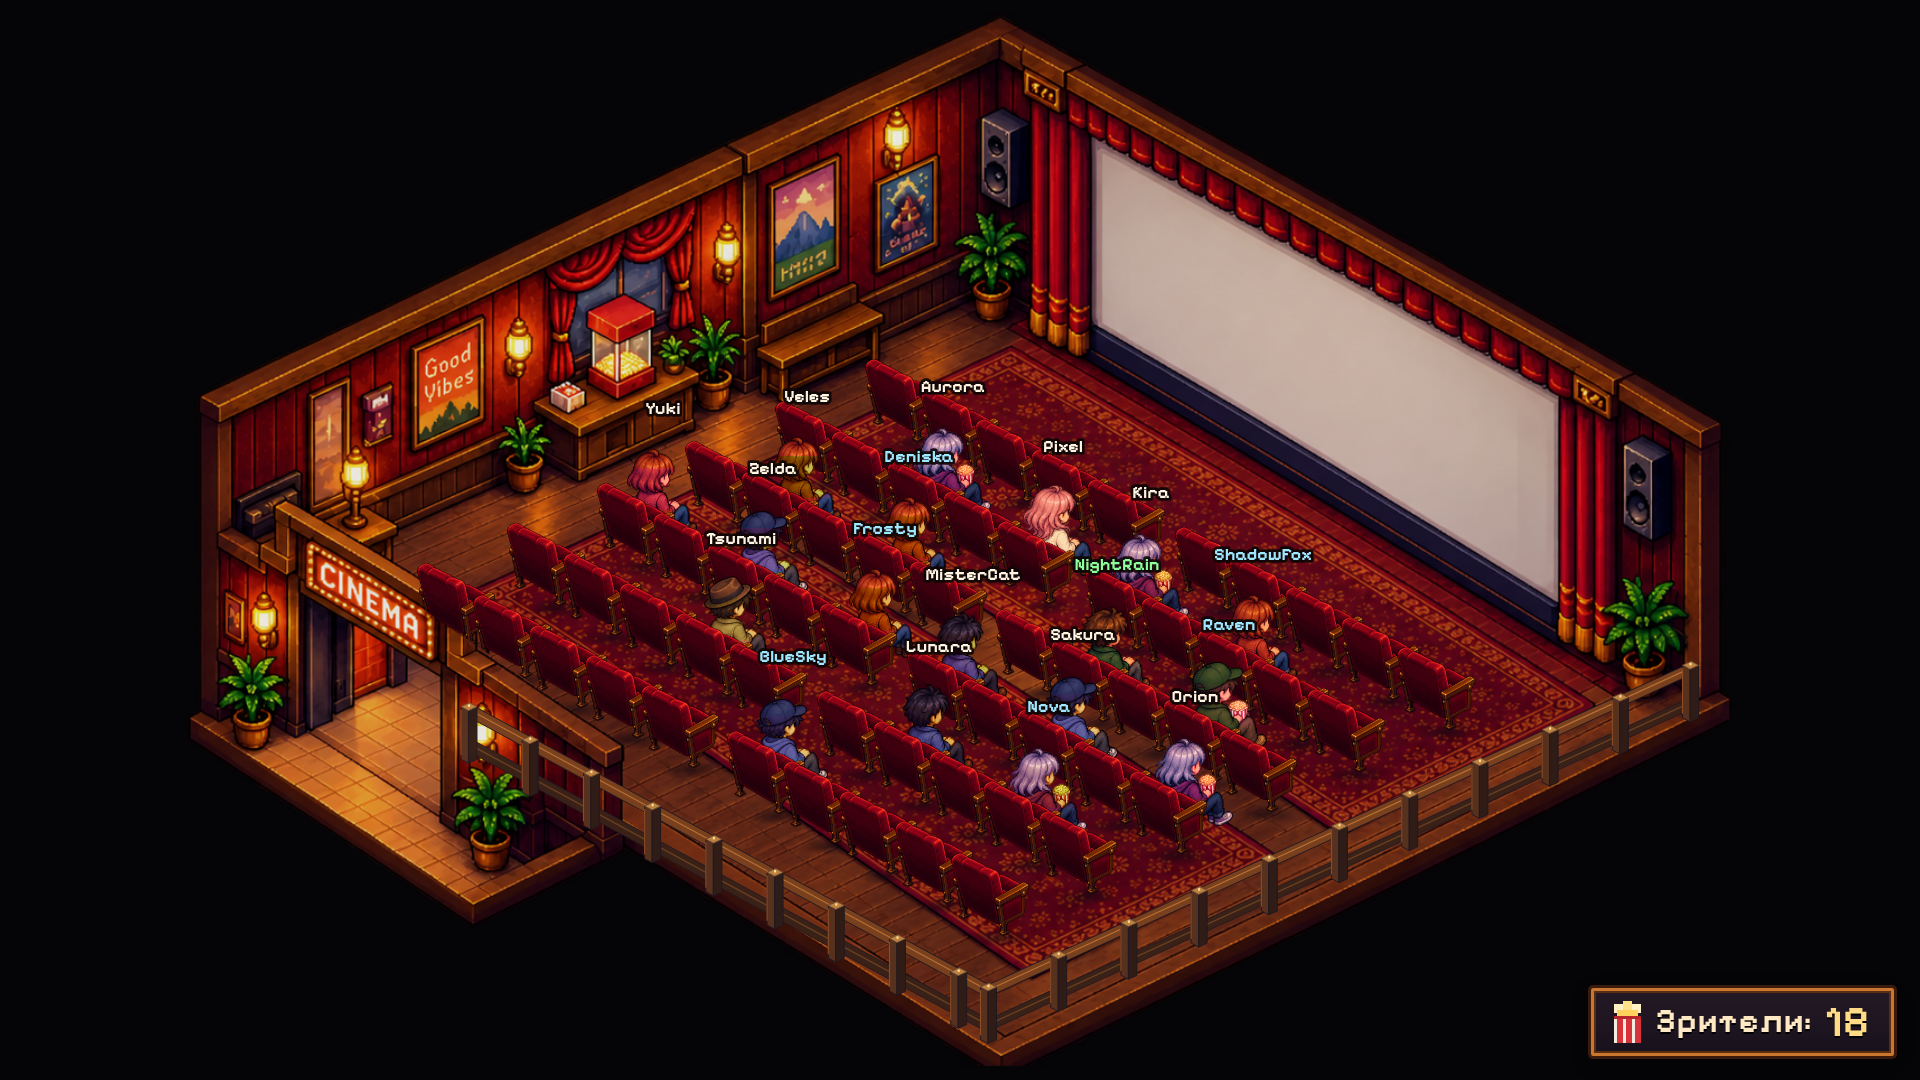
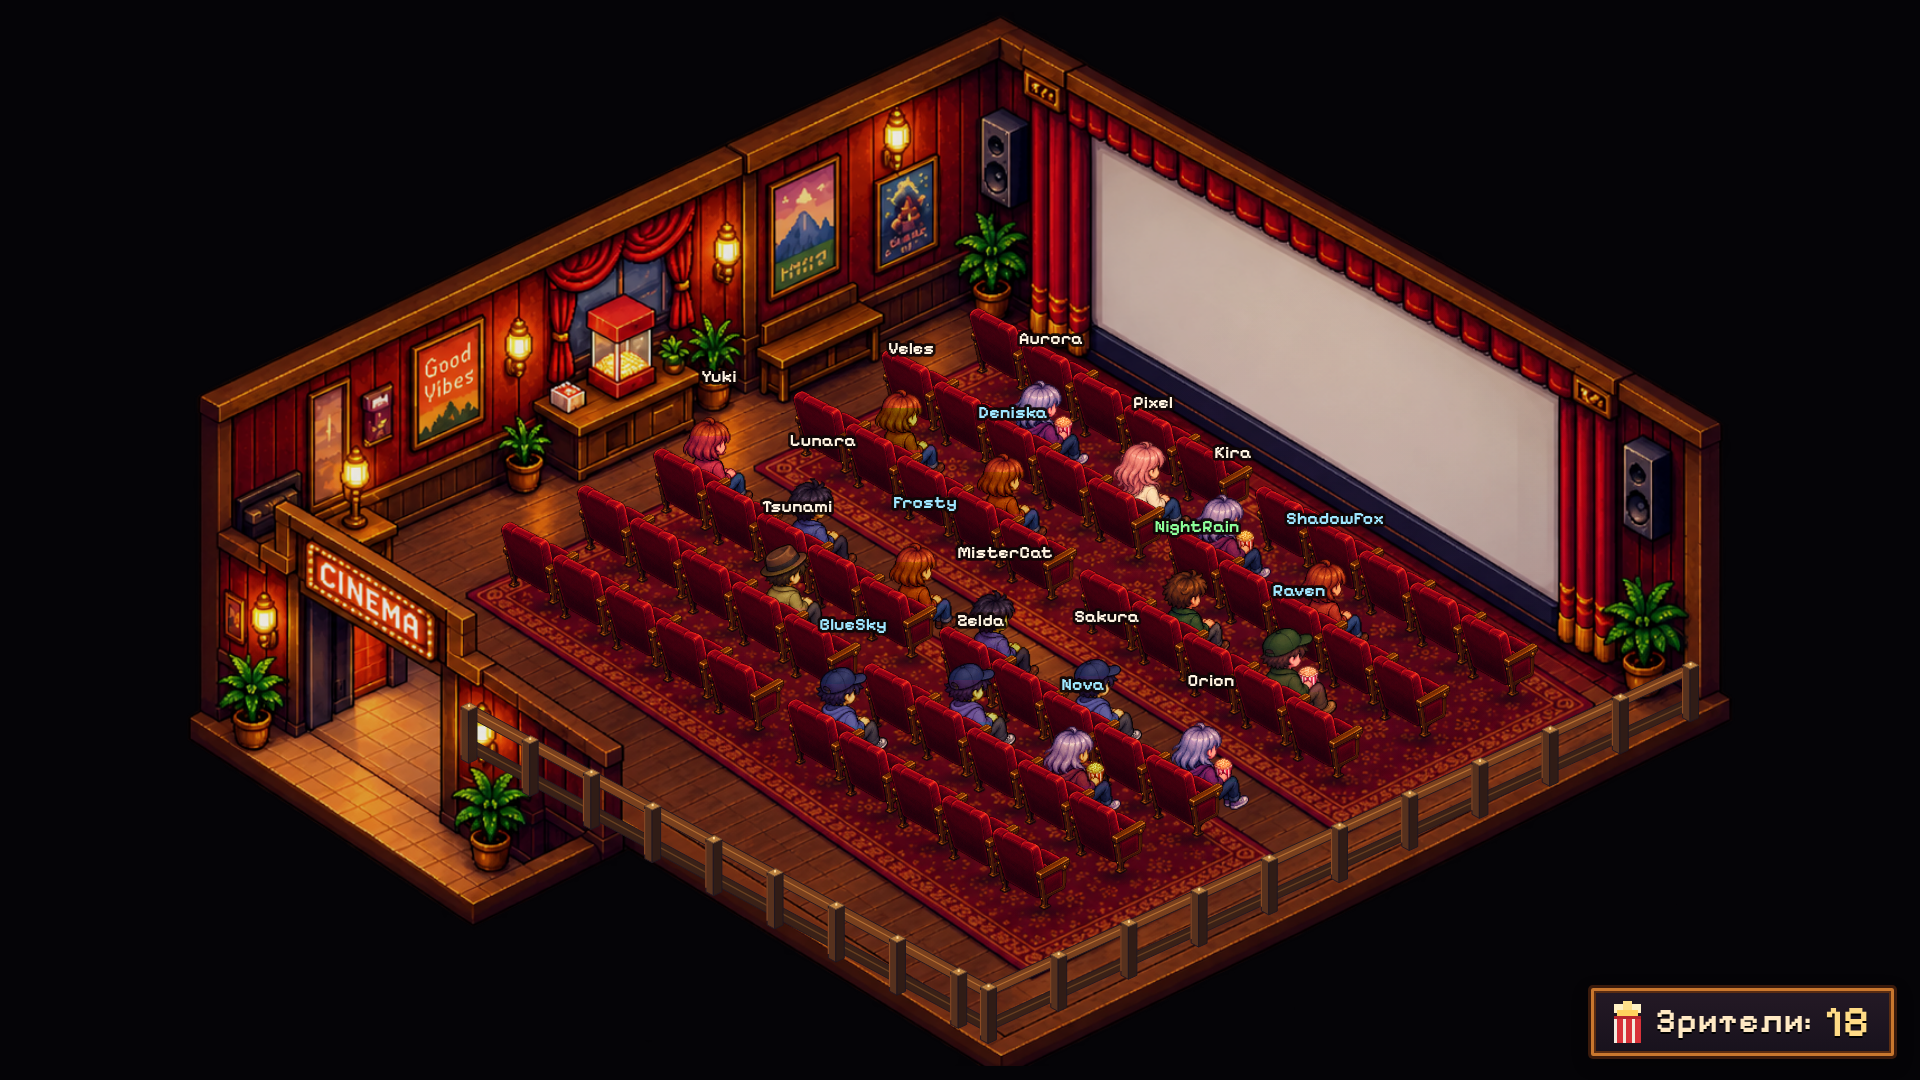
Align chair rows with the illustrated floor and preserve carpet artwork

Changed region(s): [[0.2188, 0.275, 0.8125, 0.8861]]

diff --git a/js/layout.js b/js/layout.js
@@ -30,6 +30,25 @@
     return { x: L.OX + x * 18.55 - y * 21.274, y: L.OY + x * 10.04 + y * 9.751 - z * L.ZS };
   };
 
+  // Seat rows follow the painted carpet axes, rather than the approximate
+  // perimeter projection. Both seating blocks share one straight row direction.
+  L.seatPoint = function (row, nominalX, forward = 0) {
+    const rear = row < 3;
+    const origin = rear ? { x: 883, y: 299 } : { x: 596, y: 426 };
+    const depth = rear ? { x: -231, y: 108 } : { x: -200, y: 96 };
+    const u = 0.08 + (nominalX - 2.65) / (17 - 2.65) * 0.84;
+    const v = 0.16 + (row % 3) * 0.34 - forward / 2.1 * 0.34;
+    const artX = origin.x + u * 522 + v * depth.x;
+    const artY = origin.y + u * 325 + v * depth.y;
+    const sx = 12 + artX * 0.56 - L.OX;
+    const sy = 6 + artY * 0.56 - L.OY;
+    const det = 18.55 * 9.751 + 21.274 * 10.04;
+    return {
+      x: (sx * 9.751 + sy * 21.274) / det,
+      y: (sy * 18.55 - sx * 10.04) / det
+    };
+  };
+
   L.doorX = (L.DOOR_X0 + L.DOOR_X1) / 2;
   L.doorY = L.D;
   L.OUTSIDE = { x: L.doorX, y: L.D + 1.3 };
@@ -41,11 +60,14 @@
     L.ROWS.forEach((ry, r) => {
       L.BLOCKS.forEach((b, bi) => {
         for (let i = 0; i < b.n; i++) {
+          const nominalX = b.x0 + i * L.SEAT_PITCH;
+          const point = L.seatPoint(r, nominalX);
           seats.push({
             id: `r${r}b${bi}s${i}`,
             row: r, block: bi, index: i,
-            x: b.x0 + i * L.SEAT_PITCH,
-            y: ry,
+            nominalX,
+            x: point.x,
+            y: point.y,
             occupant: null
           });
         }
@@ -77,14 +99,16 @@
   // ---------------------------------------------------------------- routes
   /** Polyline from outside the door to the seat (last point = seat itself). */
   L.routeToSeat = function (seat) {
-    const walkY = seat.y - L.WALK_OFFSET;
+    const walk = L.seatPoint(seat.row, seat.nominalX, L.WALK_OFFSET);
+    const next = L.seatPoint(seat.row, seat.nominalX + 1, L.WALK_OFFSET);
+    const rowSlope = (next.y - walk.y) / (next.x - walk.x);
     const half = (L.BLOCKS[seat.block].n - 1) / 2;
     let aisle;
     if (seat.block === 0) aisle = seat.index <= half ? L.LEFT_AISLE : L.CENTER_AISLE;
     else aisle = seat.index <= half ? L.CENTER_AISLE : L.RIGHT_AISLE;
     const pts = [L.OUTSIDE, L.INSIDE, { x: L.LEFT_AISLE, y: L.CROSS_Y }];
     if (aisle !== L.LEFT_AISLE) pts.push({ x: aisle, y: L.CROSS_Y });
-    pts.push({ x: aisle, y: walkY }, { x: seat.x, y: walkY }, { x: seat.x, y: seat.y });
+    pts.push({ x: aisle, y: walk.y + (aisle - walk.x) * rowSlope }, walk, { x: seat.x, y: seat.y });
     return pts.map((p) => ({ x: p.x, y: p.y }));
   };
 

diff --git a/js/renderer.js b/js/renderer.js
@@ -52,7 +52,7 @@
       const items = [];
       for (const s of seats) {
         const p = L.project(s.x, s.y, 0);
-        const sx = Math.round(p.x), sy = Math.round(p.y);
+        const sx = Math.round(p.x * L.ART_SCALE) / L.ART_SCALE, sy = Math.round(p.y * L.ART_SCALE) / L.ART_SCALE;
         items.push({ depth: s.x + s.y - 0.3, kind: 'cushion', sx, sy });
         items.push({ depth: s.x + s.y + 0.36, kind: 'back', sx, sy });
       }

diff --git a/tests/run_tests.py b/tests/run_tests.py
@@ -357,6 +357,21 @@ def main():
         check('14h. OBS resolutions use exact 1x, 2x and 4x pixel scales', scales == [1,2,4], str(scales))
         check('14i. illustrated assets loaded and render at native 1080p', pg.evaluate(
             "VC.Art.available && __cinema.renderer.scene.illustrated && __cinema.renderer.world.width === 1920 && __cinema.renderer.world.height === 1080"))
+        geometry = pg.evaluate("""() => {
+            const seats=VC.Layout.buildSeats(60);
+            const anchors=__cinema.renderer.seatItems.filter(p=>p.kind==='back');
+            const rows=Array.from({length:6},()=>[]);
+            seats.forEach((seat,i)=>rows[seat.row].push(anchors[i]));
+            return rows.map(points=>{
+                const a=points[0],b=points[points.length-1];
+                const dx=b.sx-a.sx,dy=b.sy-a.sy,length=Math.hypot(dx,dy);
+                return {angle:Math.atan2(dy,dx)*180/Math.PI,
+                    deviation:Math.max(...points.map(p=>Math.abs(dx*(p.sy-a.sy)-dy*(p.sx-a.sx))/length))};
+            });
+        }""")
+        check('15. all six chair rows are straight and aligned with the painted floor',
+              len(geometry)==6 and all(31.5 < r['angle'] < 32.5 and r['deviation'] < .65 for r in geometry),
+              json.dumps(geometry))
         pg.close(); m.stop()
 
         browser.close()

diff --git a/README.md b/README.md
@@ -2,7 +2,7 @@
 
 Пиксельный изометрический кинотеатр. Каждый зритель, которого Streamer.bot сообщает как присутствующего, получает уникального персонажа, который входит через дверь, находит свободное место, поворачивается к (пустому) экрану и садится. Когда зритель уходит, персонаж встаёт и выходит. Счётчик `Зрители: N` в правом нижнем углу показывает, сколько человек внутри.
 
-Зал рассчитан на **60 зрителей: 6 рядов по 10 кресел**, разделённых центральным проходом. Интерьер, кресла и персонажи используют отдельные детализированные графические ассеты: мелкая фактура бархата и дерева, складки штор, локальный янтарный свет, контактные тени и блики на подлокотниках. Крупная процедурная сетка больше не используется как основной арт. Вывеска CINEMA нарисована вместе с фасадом, с чёткими буквами и лампами по контуру. Вход расположен на переднем левом фасаде, обращён к зрителю и оформлен вывеской CINEMA. Экран остаётся пустым.
+Зал рассчитан на **60 зрителей: 6 рядов по 10 кресел**, разделённых центральным проходом. Ряды выровнены по перспективе ковров; между коврами остаётся поперечный проход. Интерьер, кресла и персонажи используют отдельные детализированные графические ассеты: мелкая фактура бархата и дерева, складки штор, локальный янтарный свет, контактные тени и блики на подлокотниках. Крупная процедурная сетка больше не используется как основной арт. Вывеска CINEMA нарисована вместе с фасадом, с чёткими буквами и лампами по контуру. Вход расположен на переднем левом фасаде, обращён к зрителю и оформлен вывеской CINEMA. Экран остаётся пустым.
 
 ![Кинотеатр и счётчик зрителей](preview.png)
 

diff --git a/assets/art/README.md b/assets/art/README.md
@@ -6,4 +6,4 @@ Bundled, generated illustrations used by the overlay; no remote image requests a
 - `cinema-chair.png`: transparent velvet chair, sampled into a cached seat layer with a floor contact shadow.
 - `viewers.png`, `viewers-extra.png`: two transparent sheets, each with four character rows and three pose columns (front, walking back, seated).
 
-`js/art.js` contains the source crop rectangles, native canvas caches, facade occlusion mask, lighting positions and stable wardrobe variants. The composition renders in 1920×1080. Movement uses logical coordinates from `js/layout.js`; its projection is calibrated against this room artwork. When replacing an image, update that calibration and inspect both seated and walking viewers, including the entrance and a full hall.
+`js/art.js` contains the source crop rectangles, native canvas caches, facade occlusion mask, lighting positions and stable wardrobe variants. The composition renders in 1920×1080. Movement uses logical coordinates from `js/layout.js`; its room projection and `seatPoint` row calibration follow this room artwork. When replacing an image, update that calibration and inspect both seated and walking viewers, including the entrance and a full hall.
